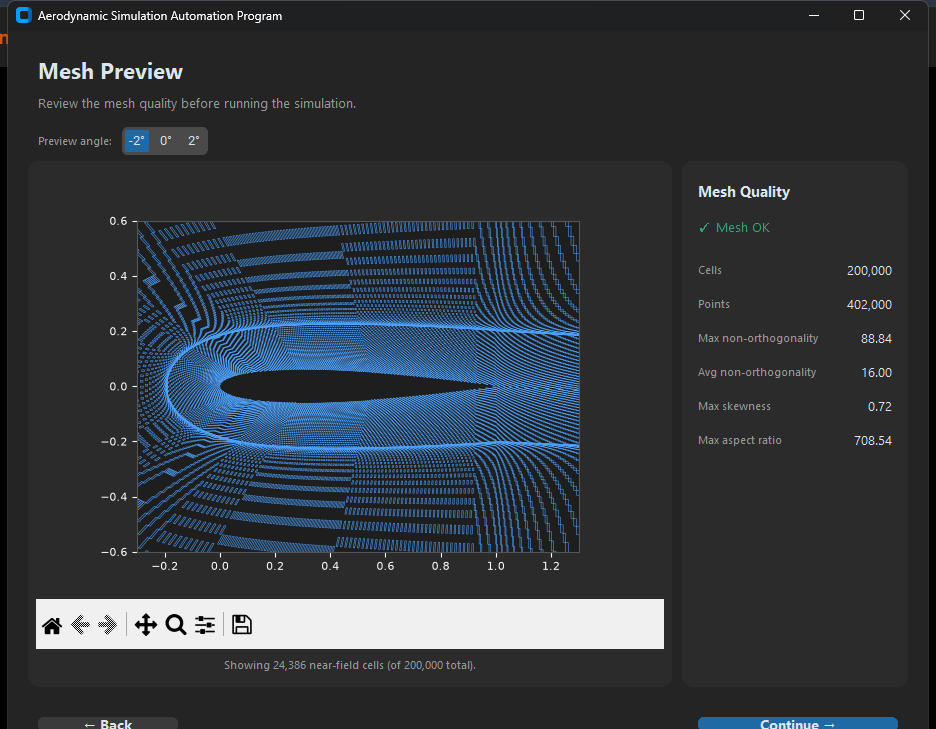
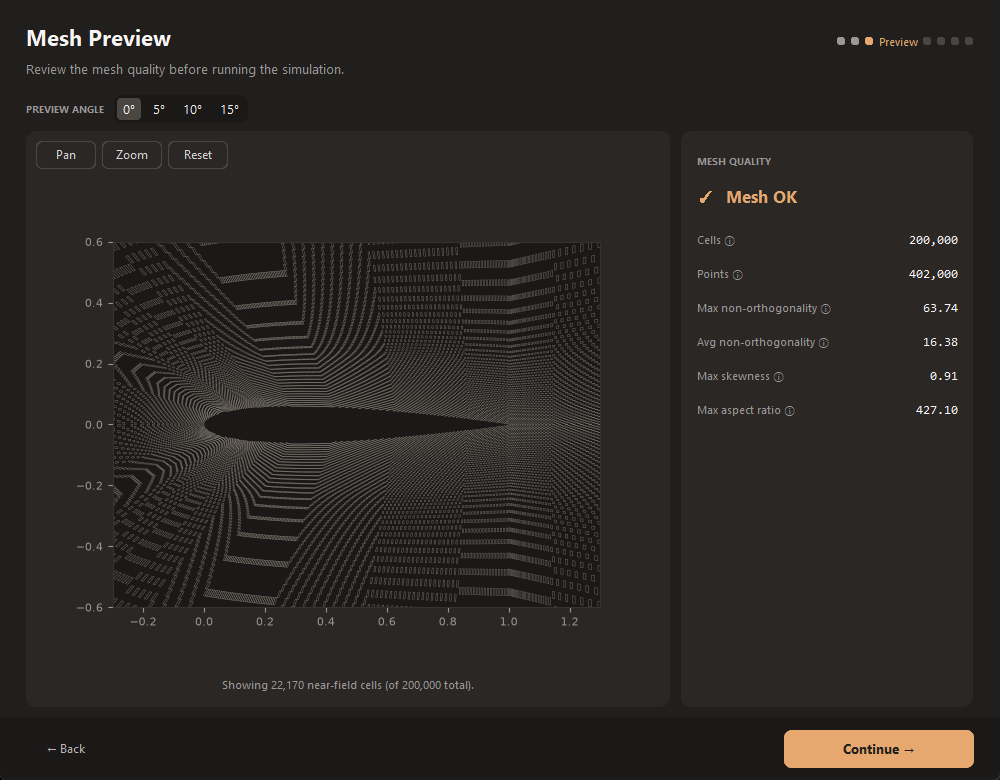
Polish the live chart and mesh preview; refresh the mesh preview screenshot
Skip the convergence chart until a case has two samples (one point drew an
empty axis), and lighten the wireframe strokes so the mesh is readable on
the dark canvas. The README mesh preview image now comes from a real
blockMesh/checkMesh run.

diff --git a/Run.py b/Run.py
@@ -889,7 +889,7 @@ class App:
         if polygons:
             xs = [p[0] for poly in polygons for p in poly]
             ys = [p[1] for poly in polygons for p in poly]
-            coll = PolyCollection(polygons, facecolors="none", edgecolors=BORDER_STRONG, linewidths=0.35)
+            coll = PolyCollection(polygons, facecolors="none", edgecolors="#7d766f", linewidths=0.3)
             ax.add_collection(coll)
             ax.set_xlim(max(-0.3, min(xs)), min(1.3, max(xs)))
             ax.set_ylim(max(-0.6, min(ys)), min(0.6, max(ys)))
@@ -1755,6 +1755,8 @@ class App:
         ax.set_axisbelow(True)
 
         data = self._live_data.get(self._selected_angle)
+        if data and len(data["time"]) < 2:
+            data = None  # one point draws nothing useful; wait for a second sample
         if not data:
             stage = self._progress.get(self._selected_angle, {}).get("stage", "queued")
             hint = "Waiting for the first coefficients…" if stage == "simpleFoam" else \
